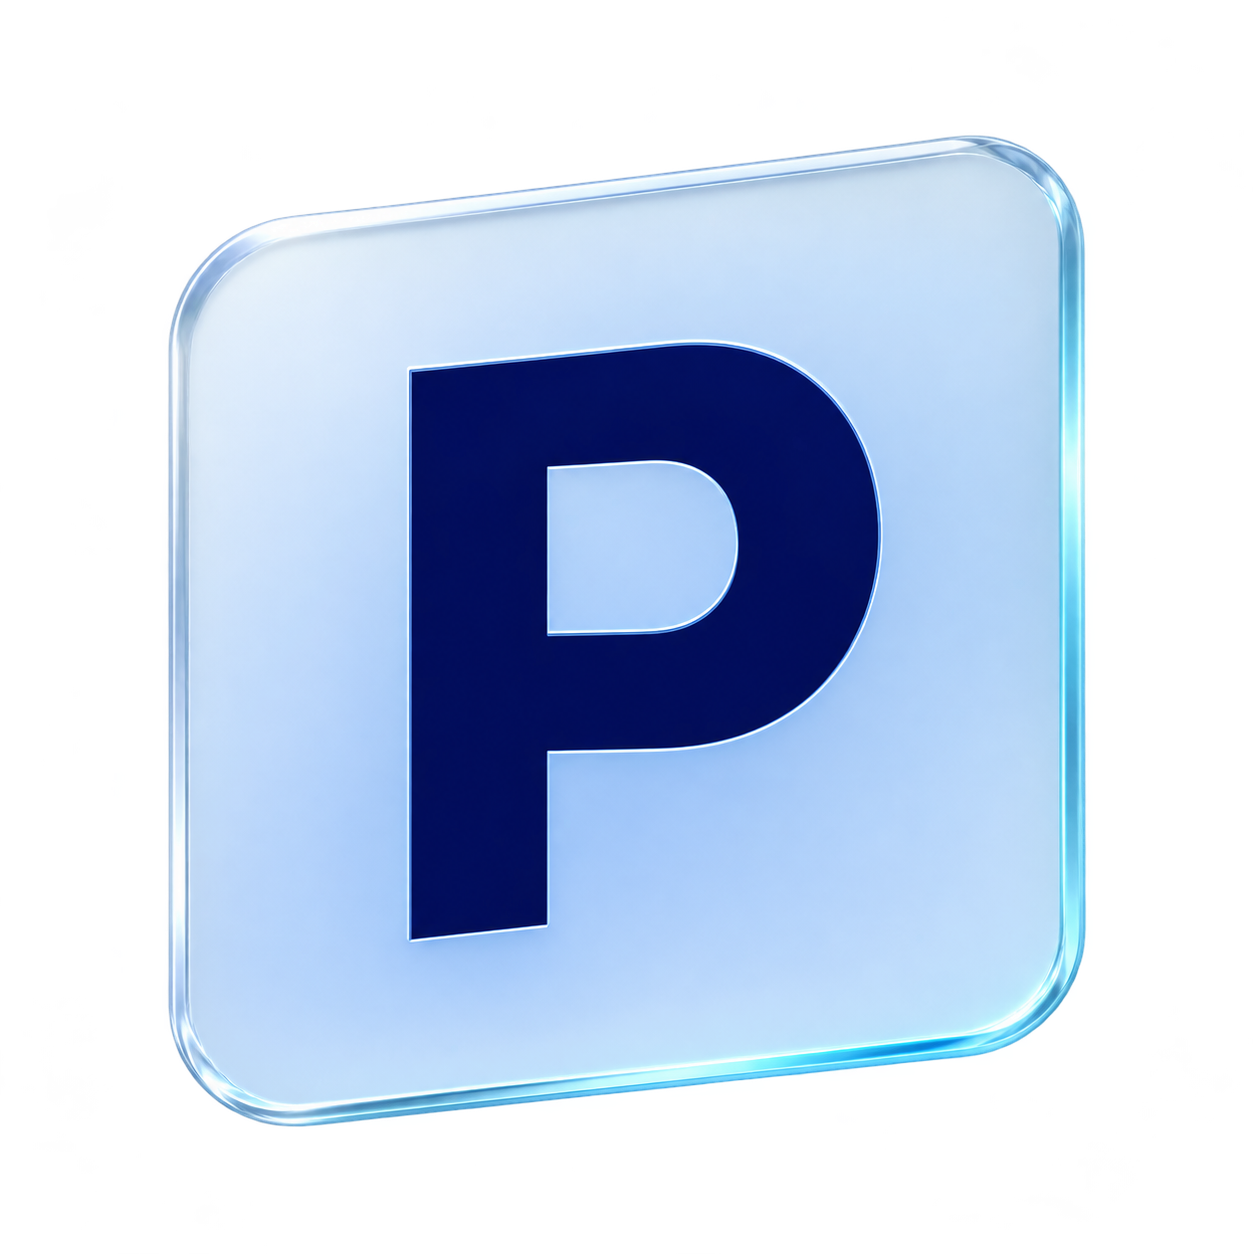
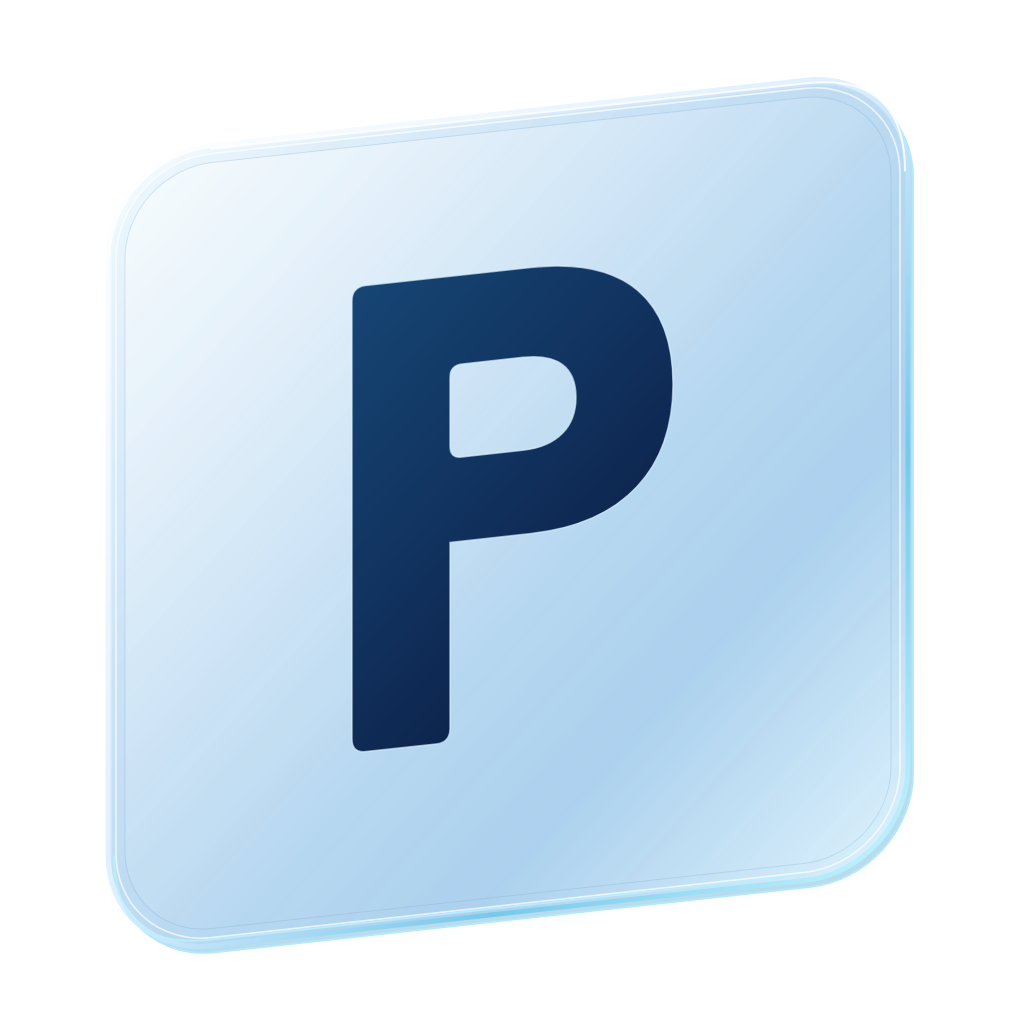
Align custom Pane monogram and glass in one perspective

Changed region(s): [[0.0938, 0.0625, 0.9062, 0.9375], [0.25, 0.25, 0.7188, 0.7812]]

diff --git a/README.md b/README.md
@@ -64,4 +64,4 @@ On macOS with the Swift tools installed, run `./scripts/install.sh` to build and
 
 The visible app and bundle name are Pane. The bundle identifier (`dev.woozy.quick-launch`), executable name, preference keys and Spotlight report folders retain their previous names to preserve existing settings, usage counts and permissions. The installer replaces this app's old `~/Applications/Quick Launch.app` after staging and verifying Pane. Public source remains at https://github.com/bright-and-early/quick-launch so existing links continue to work.
 
-The icon master is `Assets/Pane.png`; packaging generates the complete macOS icon set and embeds `Pane.icns`. Distribution builds are ad-hoc signed and not notarized.
+The editable icon is `Assets/Pane.svg`; the pane and custom P share one perspective transform. `Assets/Pane.png` is its production raster; packaging generates the complete macOS icon set and embeds `Pane.icns`. Distribution builds are ad-hoc signed and not notarized.
